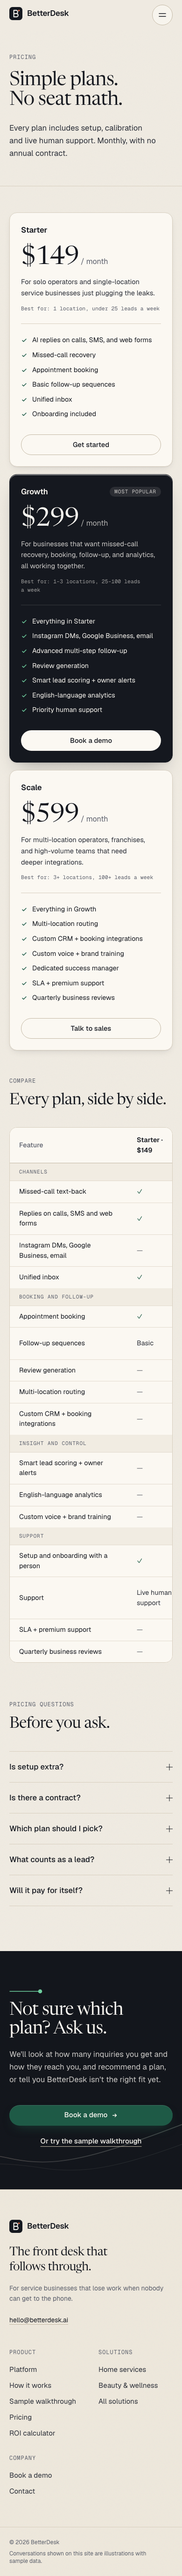
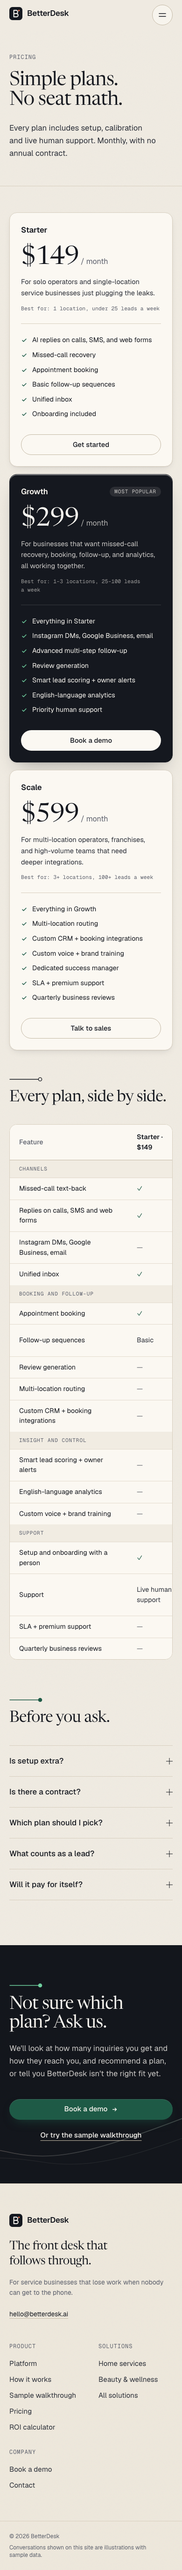
Thread marks on subpages; fix hollow final step nodes

diff --git a/app/how-it-works/page.tsx b/app/how-it-works/page.tsx
@@ -43,20 +43,20 @@ export default function HowItWorksPage() {
       </PageHero>
 
       <section className="container-bd py-16 md:py-24" aria-labelledby="daily-title">
-        <SectionHeading eyebrow="Every day" id="daily-title" title={<>What happens to each inquiry.</>} />
+        <SectionHeading mark="ink" id="daily-title" title={<>What happens to each inquiry.</>} />
         <div className="mt-12"><ThroughLine /></div>
       </section>
 
       <section className="border-y border-rule bg-paper-2/50 py-16 md:py-24" aria-labelledby="setup-title">
         <div className="container-bd grid gap-12 lg:grid-cols-[1fr_1.6fr] lg:gap-16">
-          <SectionHeading eyebrow="Getting started" id="setup-title" title={<>From first call to first booking.</>}>
+          <SectionHeading mark="ink" id="setup-title" title={<>From first call to first booking.</>}>
             <p>The order things happen in. Timing depends on your business and your tools, so we confirm a date with you rather than promise one here.</p>
           </SectionHeading>
           <ol className="reveal relative space-y-0">
             <span className="absolute bottom-4 left-[15px] top-4 w-px bg-gradient-to-b from-signal via-ink-2 to-handled" aria-hidden="true" />
             {SETUP.map((s, i) => (
               <li key={s.k} className="relative grid grid-cols-[32px_1fr] gap-5 pb-9 last:pb-0">
-                <span className={`relative z-10 grid size-[31px] place-items-center rounded-full border-2 bg-paper font-mono text-[0.72rem] ${i === SETUP.length - 1 ? "border-handled bg-handled text-card" : i === 0 ? "border-signal text-signal" : "border-ink text-ink"}`}>
+                <span className={`relative z-10 grid size-[31px] place-items-center rounded-full border-2 font-mono text-[0.72rem] ${i === SETUP.length - 1 ? "border-handled bg-handled text-card" : i === 0 ? "border-signal bg-paper text-signal" : "border-ink bg-paper text-ink"}`}>
                   {i + 1}
                 </span>
                 <div className="pt-0.5">
@@ -71,7 +71,7 @@ export default function HowItWorksPage() {
       </section>
 
       <section className="container-bd py-16 md:py-24" aria-labelledby="need-title">
-        <SectionHeading eyebrow="What you'll need" id="need-title" title="Four things. You probably have them already." />
+        <SectionHeading mark="ink" id="need-title" title="Four things. You probably have them already." />
         <dl className="reveal mt-12 grid gap-px overflow-hidden rounded-[var(--radius-lg)] border border-rule bg-rule sm:grid-cols-2">
           {NEED.map(([k, v]) => (
             <div key={k} className="bg-card p-6">
@@ -83,7 +83,7 @@ export default function HowItWorksPage() {
       </section>
 
       <section className="container-bd grid gap-10 pb-24 lg:grid-cols-[1fr_1.6fr] lg:gap-16" aria-labelledby="hfaq">
-        <SectionHeading eyebrow="Setup questions" id="hfaq" title="The practical stuff." />
+        <SectionHeading mark="handled" id="hfaq" title="The practical stuff." />
         <Faq items={HOW_FAQ} />
       </section>
       <CtaBand />

diff --git a/components/SolutionPage.tsx b/components/SolutionPage.tsx
@@ -30,7 +30,7 @@ export function SolutionPage({ s }: { s: Solution }) {
       </section>
 
       <section className="container-bd py-16 md:py-24" aria-labelledby="pain-title">
-        <SectionHeading eyebrow="Sound familiar?" id="pain-title" title={<>Where the work slips away.</>} />
+        <SectionHeading mark="signal" id="pain-title" title={<>Where the work slips away.</>} />
         <ol className="mt-12 grid gap-px overflow-hidden rounded-[var(--radius-lg)] border border-rule bg-rule md:grid-cols-3">
           {s.pains.map((p, i) => (
             <li key={p.k} className="reveal bg-card p-6 sm:p-7">
@@ -45,7 +45,7 @@ export function SolutionPage({ s }: { s: Solution }) {
       <section className="border-y border-rule bg-paper-2/50 py-16 md:py-24" aria-labelledby="flow-title">
         <div className="container-bd grid gap-12 lg:grid-cols-[1.4fr_1fr] lg:gap-16">
           <div>
-            <SectionHeading eyebrow="How it would run" id="flow-title" title={<>A workflow that sounds like your shop.</>} />
+            <SectionHeading mark="ink" id="flow-title" title={<>A workflow that sounds like your shop.</>} />
             <ol className="mt-10 space-y-6">
               {s.flow.map((f, i) => (
                 <li key={f.k} className="reveal grid grid-cols-[40px_1fr] gap-3 border-t border-rule pt-5">
@@ -70,12 +70,12 @@ export function SolutionPage({ s }: { s: Solution }) {
       </section>
 
       <section id="walkthrough" className="container-bd scroll-mt-20 py-16 md:py-24" aria-labelledby="walk-title">
-        <SectionHeading eyebrow="Sample conversation" id="walk-title" title="Step through it." />
+        <SectionHeading mark="ink" id="walk-title" title="Step through it." />
         <div className="reveal mt-10"><LeadJourney scenarioIds={[s.scenarioId]} /></div>
       </section>
 
       <section className="container-bd grid gap-10 pb-24 lg:grid-cols-[1fr_1.6fr] lg:gap-16" aria-labelledby="sfaq">
-        <SectionHeading eyebrow={`${s.name} questions`} id="sfaq" title="Asked on almost every call." />
+        <SectionHeading mark="handled" id="sfaq" title="Asked on almost every call." />
         <Faq items={s.faq} />
       </section>
       <CtaBand />

diff --git a/app/pricing/page.tsx b/app/pricing/page.tsx
@@ -89,7 +89,7 @@ export default function PricingPage() {
       </section>
 
       <section className="container-bd pb-20 md:pb-28" aria-labelledby="compare-title">
-        <SectionHeading eyebrow="Compare" id="compare-title" title="Every plan, side by side." />
+        <SectionHeading mark="ink" id="compare-title" title="Every plan, side by side." />
         <div className="reveal relative mt-10 overflow-x-auto rounded-[var(--radius-lg)] border border-rule bg-card" role="region" aria-label="Plan comparison table, scrolls sideways on small screens" tabIndex={0}>
           <table className="w-full min-w-[640px] border-collapse text-left text-[0.9rem]">
             <caption className="sr-only">Feature comparison of Starter, Growth and Scale plans</caption>
@@ -125,7 +125,7 @@ export default function PricingPage() {
       </section>
 
       <section className="container-bd grid gap-10 pb-24 lg:grid-cols-[1fr_1.6fr] lg:gap-16" aria-labelledby="pfaq">
-        <SectionHeading eyebrow="Pricing questions" id="pfaq" title="Before you ask." />
+        <SectionHeading mark="handled" id="pfaq" title="Before you ask." />
         <Faq items={PRICING_FAQ} />
       </section>
       <CtaBand title={<>Not sure which plan? Ask us.</>} body="We'll look at how many inquiries you get and how they reach you, and recommend a plan, or tell you BetterDesk isn't the right fit yet." />

diff --git a/components/ThroughLine.tsx b/components/ThroughLine.tsx
@@ -26,8 +26,8 @@ export function ThroughLine() {
         {STOPS.map((s, i) => (
           <li key={s.k} className="reveal relative pl-9 md:pl-0" style={{ animationDelay: `${i * 40}ms` }}>
             <span
-              className={`absolute left-0 top-0 grid size-[23px] place-items-center rounded-full border-2 bg-paper font-mono text-[0.6875rem] md:relative ${
-                s.tone === "signal" ? "border-signal text-signal" : s.tone === "handled" ? "border-handled bg-handled text-card" : "border-ink text-ink"
+              className={`absolute left-0 top-0 grid size-[23px] place-items-center rounded-full border-2 font-mono text-[0.6875rem] md:relative ${
+                s.tone === "signal" ? "border-signal bg-paper text-signal" : s.tone === "handled" ? "border-handled bg-handled text-card" : "border-ink bg-paper text-ink"
               }`}
             >
               {i + 1}

diff --git a/app/platform/page.tsx b/app/platform/page.tsx
@@ -67,7 +67,7 @@ export default function PlatformPage() {
       </section>
 
       <section className="container-bd py-16 md:py-24" aria-labelledby="parts-title">
-        <SectionHeading eyebrow="How the pieces fit" id="parts-title" title={<>Six jobs a front desk does. And where each one stops.</>}>
+        <SectionHeading mark="ink" id="parts-title" title={<>Six jobs a front desk does. And where each one stops.</>}>
           <p>Each part below says what it does and what it doesn&rsquo;t. We&rsquo;d rather you know the edges before the demo.</p>
         </SectionHeading>
         <ol className="mt-14 divide-y divide-rule border-y border-rule">

diff --git a/docs/redesign/HANDOFF.md b/docs/redesign/HANDOFF.md
@@ -1,6 +1,6 @@
 # BetterDesk redesign · handoff
 
-_Last updated 2026-11-06 03:35 PST._
+_Last updated 2026-11-06 03:21 PST._
 
 ## URLs (real, checked)
 - **Public:** https://betterdesk-redesign.vercel.app (alias of the new project's production deployment). Anonymous `curl` returns 200 on every route and 404 on unknown paths. **It still serves the first build (commit `84e7eaa`, 02:55 PST)**; see "Making the latest build public" below.

diff --git a/docs/redesign/STATUS.md b/docs/redesign/STATUS.md
@@ -1,4 +1,4 @@
-# STATUS (updated 2026-11-06 03:35 PST)
+# STATUS (updated 2026-11-06 03:21 PST)
 
 ## Where things stand
 - **Public URL (older build, commit 84e7eaa, 02:55 PST):** https://betterdesk-redesign.vercel.app. Anonymous 200, indexable, canonicals point at https://betterdesk.ai.
